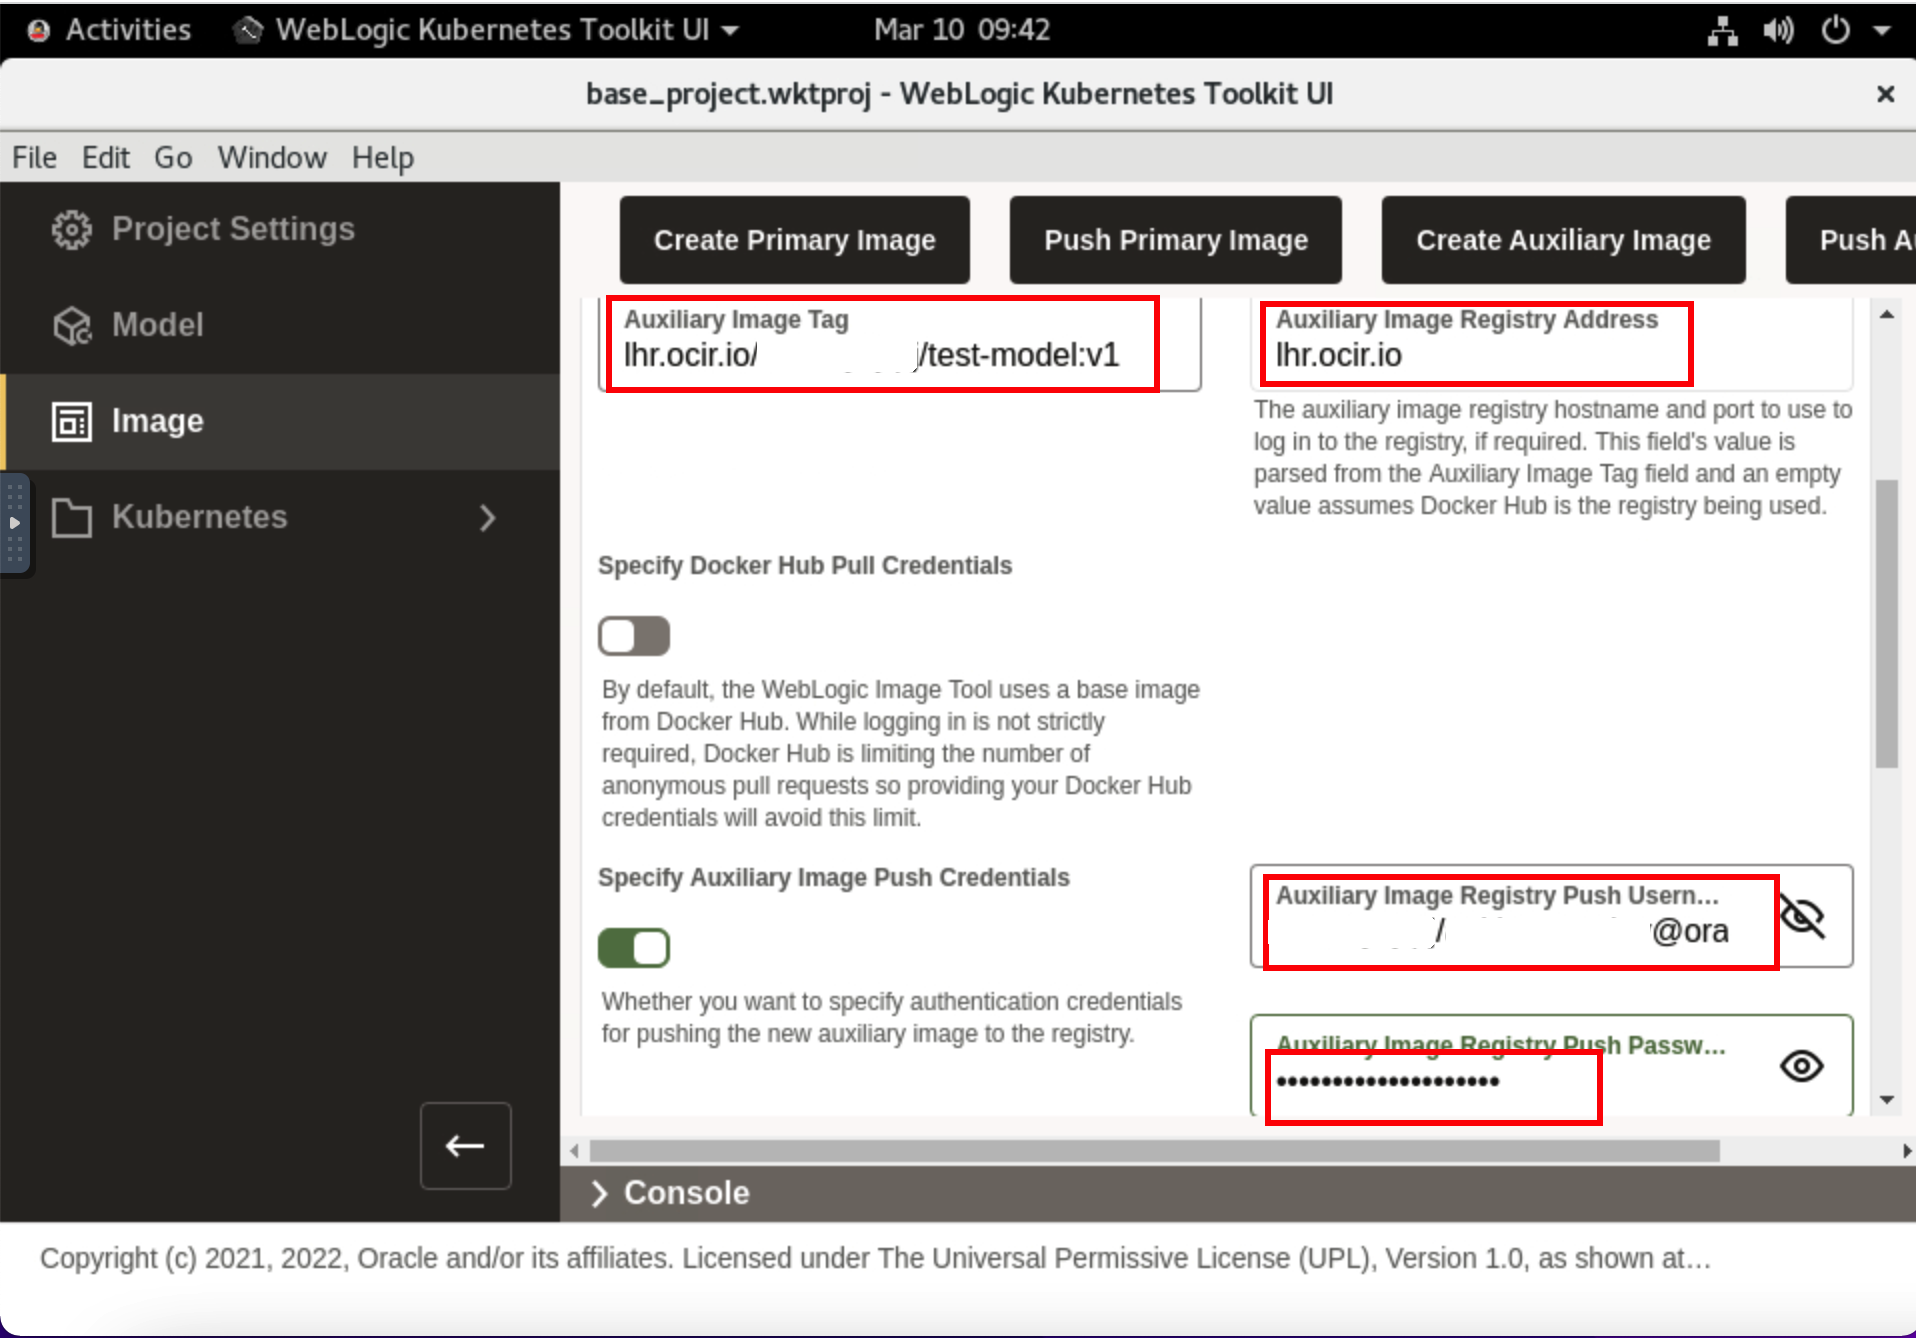
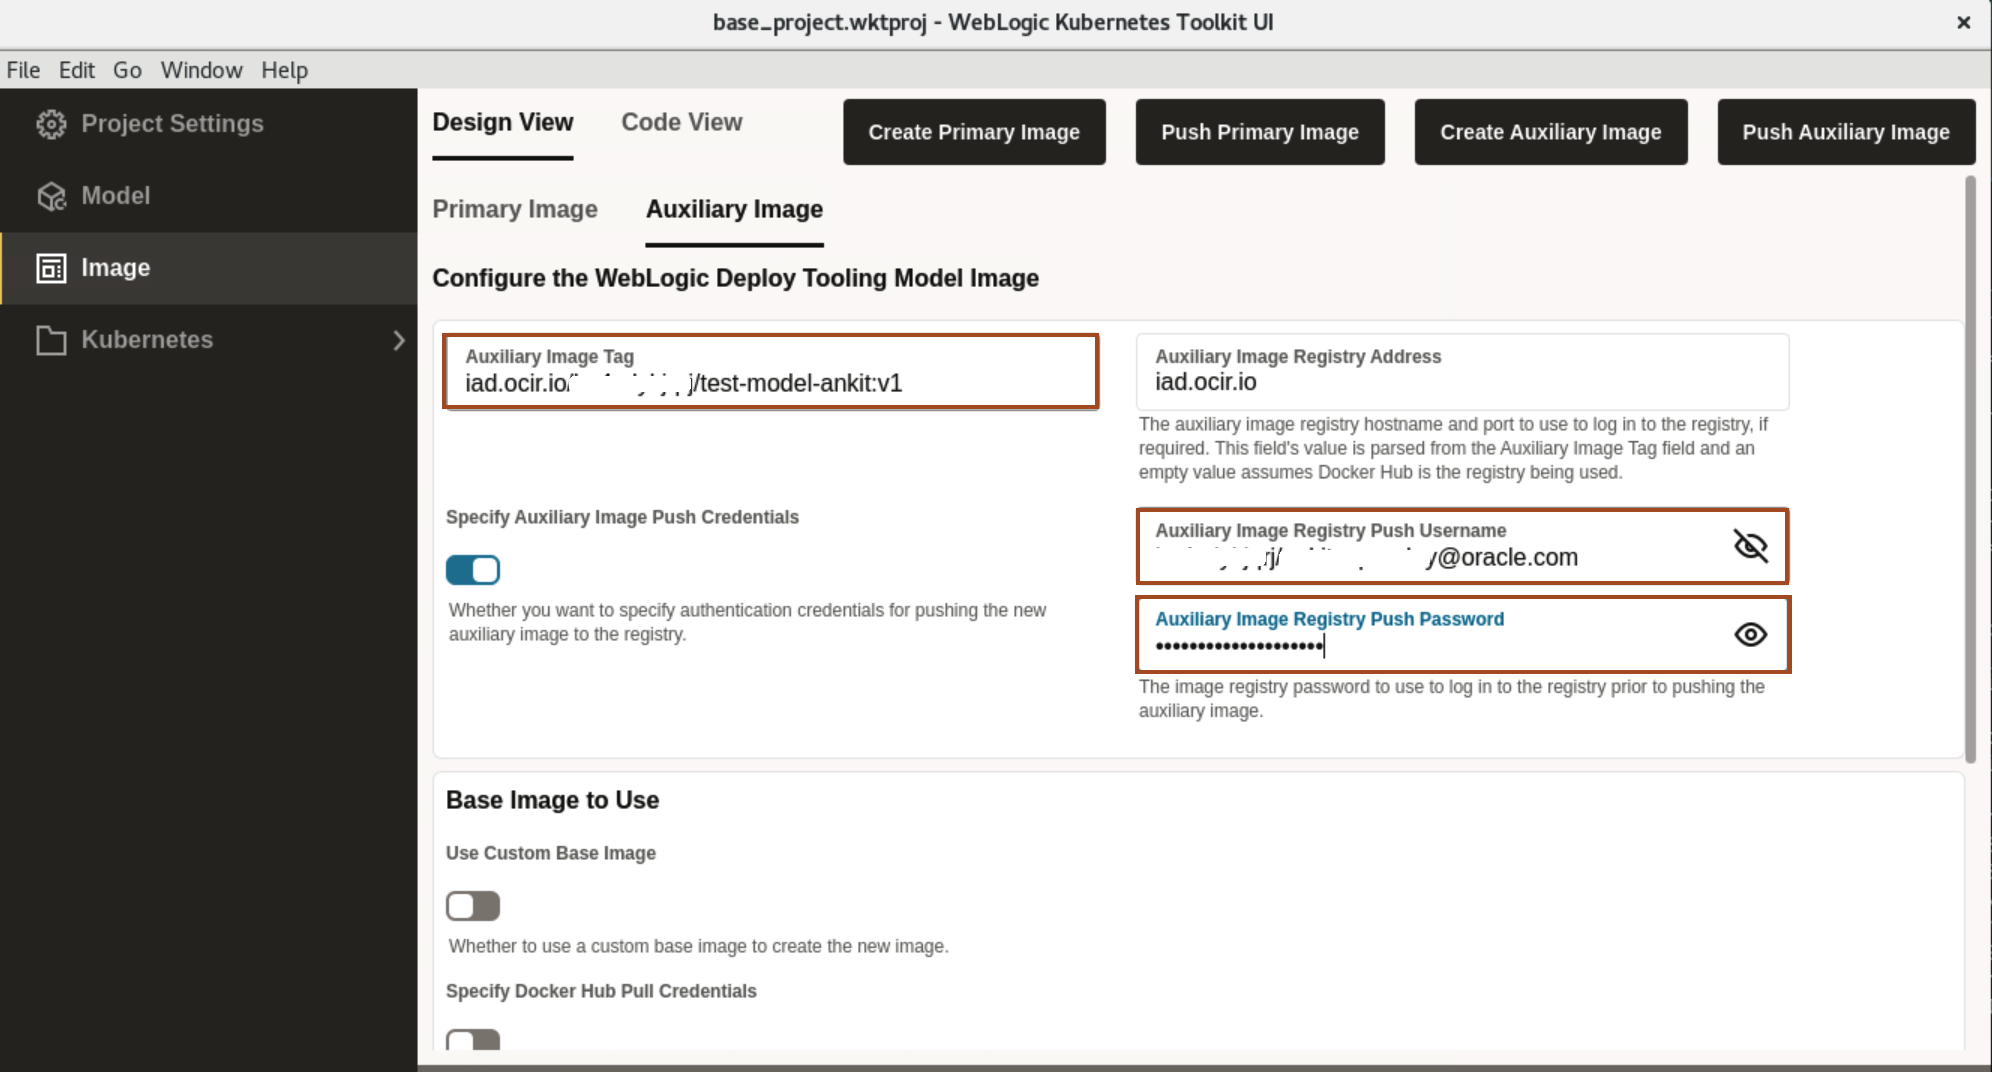
lab 7 complete

diff --git a/create-image/create-image.md b/create-image/create-image.md
@@ -27,20 +27,19 @@ In this Task, we creats the configuration file *.oci/config* and *.kube/config* 
 3. In the Console, select the *Hamburger Menu* -> *Developer Services* -> *Kubernetes Clusters (OKE)* as shown.
     ![OKE Icon](images/oke-icon.png)
 
-2. Click on the cluster name which your created in lab 3. and then click *Access Cluster*. 
+4. Click on the cluster name which your created in lab 1 and then click *Access Cluster*. 
     ![Access Cluster](images/access-cluster.png)
 
 
-3. Select *Local Access* and then click on *Copy* as shown.
+5. Select *Local Access* and then click on *Copy* as shown.
     ![Local Access](images/local-access.png)
 
-4. Click on *Activities* and select the *Terminal*.
-    ![Terminal](images/click-terminal.png)
+6. Go back to terminal and open a new tab.
 
-5. Paste the copied command in the terminal. For *Do you want to create a new config file?*, Type *y* then press *Enter*. For *Do you want to create your config file by logging in through a browser?*, Type *y* then press *Enter*.
+7. Paste the copied command in the new tab. For *Do you want to create a new config file?*, Type *y* then press *Enter*. For *Do you want to create your config file by logging in through a browser?*, Type *y* then press *Enter*.
     ![OCI Config](images/oci-config.png)
 
-6. In Firefox Browser, click on your active session.
+8. In Firefox Browser, click on your active session.
     > You will see *Authorization Completed* as shown.
     ![Authorization Complete](images/authorization-complete.png)
 
@@ -61,39 +60,38 @@ In this task, we are creating an Auxiliary image, which we will push to the Orac
 
 
 
-1. Click *Image*. For Primary Image, we will use the below *weblogic* Image.So leave default values under *Primary Image* section as shown 
-
-    ```bash
-    <copy>container-registry.oracle.com/middleware/weblogic:12.2.1.3-ol8</copy>
-    ```
+1. Click *Image*. For Primary Image, we will use the below *weblogic:12.2.1.3-ol8* from [oracle container registry](http://container-registry.oracle.com) Image.So leave default values under *Primary Image* section as shown 
+    
     ![Primary Image](images/primary-image.png)
     > **For your information only:**<br>
     > The primary image is the one used for running the domain. One primary image can be reused for hundreds of domains. The primary image contains the OS, JDK, and FMW software installations.
 
-2. To create the Auxiliary Image Tag, we need the following information:
+2. Click **Auxiliary Image** tab. To create the Auxiliary Image Tag, we need the following information:
 
     * End point for the Region
     * Tenancy Namespace
 
+    ![click auxiliary](images/click-auxiliary.png)
 
-3. Locate the *Endpoint for Your Region*. Refer to the table documented at this URL [https://docs.oracle.com/en-us/iaas/Content/Registry/Concepts/registryprerequisites.htm#Availab](https://docs.oracle.com/en-us/iaas/Content/Registry/Concepts/registryprerequisites.htm#Availab). In the example shown, the endpoint for the region is *UK South (London)* (as the region name) and its endpoint is *lhr.ocir.io*. Locate the endpoint for your own *Region Name* and save it in the text file. You will also need it for the next lab.
 
-    ![End Points](images/end-point.png " ")
+3. Locate the *Endpoint for Your Region*. Refer to the table documented at this URL [https://docs.oracle.com/en-us/iaas/Content/Registry/Concepts/registryprerequisites.htm#Availab](https://docs.oracle.com/en-us/iaas/Content/Registry/Concepts/registryprerequisites.htm#Availab). In the example shown, the endpoint for the region is *US East(Ashburn)* (as the region name) and its endpoint is **iad.ocir.io**. Locate the endpoint for your own *Region Name* and save it in the text file. You will also need it for the next lab.
+
+    ![region name](images/region-name.png " ")
+    ![end points](images/end-point.png " ")
 
     >Now you have both the tenancy namespace and endpoint for your region.
  
 
-4. In lab 3, you already noted the tenancy namespace in your text file. If not, then for finding the Namespace of the tenancy, select the *Hamburger Menu* -> *Developer Services* -> *Container Registry*, as shown. Select the repository you created, you will find the Namespace as shown.
+4. In lab 2, you already noted the tenancy namespace in your text file. If not, then for finding the Namespace of the tenancy, select the *Hamburger Menu* -> *Developer Services* -> *Container Registry*, as shown. Select the repository you created, you will find the Namespace as shown.
     ![Tenancy Namespace](images/tenancy-namespace.png)
 
-5. Now you have both the Tenancy Namespace and Endpoint for your region. Copy the following command and paste it in your text file. Then replace the `END_POINT_OF_YOUR_REGION` with the endpoint of your region name, `NAMESPACE_OF_YOUR_TENANCY` with your tenancy's namespace. Click on *Auxiliary Image* tab as shown.
-    ![Auxiliary Tab](images/auxiliary-tab.png)
+5. Now you have both the Tenancy Namespace and Endpoint for your region. Copy the following command and paste it in your text file. Then replace the `END_POINT_OF_YOUR_REGION` with the endpoint of your region name, `NAMESPACE_OF_YOUR_TENANCY` with your tenancy's namespace. 
 
     ````bash
     <copy>END_POINT_OF_YOUR_REGION/NAMESPACE_OF_YOUR_TENANCY/test-model-your_first_name:v1</copy>
     ````
 
-> For example, in my case Auxiliary Image tag is `lhr.ocir.io/tenancynamespace/test-model-ankit:v1`.
+> For example, in my case Auxiliary Image tag is `iad.ocir.io/tenancynamespace/test-model-ankit:v1`.
 
 6. In step 4, you also determined the tenancy namespace.
 Enter the  Auxiliary Image Registry Push Username as follows: `NAMESPACE_OF_YOUR_TENANCY`/`YOUR_ORACLE_CLOUD_USERNAME`. <br>
@@ -123,7 +121,7 @@ Enter the  Auxiliary Image Registry Push Username as follows: `NAMESPACE_OF_YOUR
 12. Once image is successfully pushed, On *Push Image Complete* window, click *Ok*. 
     ![Auxiliary Pushed](images/auxiliary-pushed.png)
 
-
+You may now proceed to the next lab.
 
 ## Acknowledgements
 * **Author** -  Ankit Pandey

diff --git a/deploy-ingress/deploy-ingress.md b/deploy-ingress/deploy-ingress.md
@@ -2,7 +2,9 @@
 
 ## Introduction
 
-In this lab, we install the *Traefik* Ingress Controller. Later, we updates the *Ingress Routes* to access the application and admin server.
+In this lab, we install the *Traefik* Ingress Controller and then, we updates the *Ingress Routes* to access the application and admin server.
+
+Later, we access the application *opdemo* and verify the successful migration of an offline on-premise domain. we also verify the loadbalancing between managed server pods.
 
 Estimated Time: 10 minutes
 
@@ -12,6 +14,7 @@ In this lab, you will:
 
 * Install Ingress Controller on Kubernetes Cluster.
 * Update the Ingress Routes.
+* Access the Application through the Browser.
 
 
 ## Task 1: Installtion of Ingress Controller to the Oracle Kubernetes Cluster
@@ -70,7 +73,24 @@ In this task, we add the Ingress routes for Accessing the Admin Console, Applica
 8. Once you see *Ingress Routes Update Complete* window, Click *Ok*.
     ![Update Ingress Complete](images/update-ingress-complete.png)
     
-    > You need to notedown this IP and save it in text file.
+    > You need to notedown this load balancer public IP and save it in text file.
+
+## Task 3: Access the Application through the Browser
+
+In this task, we access the *opdemo* application. We click on refresh icon to make multiple request to application, to verify loadbalancing between two managed server pods.
+
+1. Copy the below URL and replace *XX.XX.XX.XX* with your load balancer public IP, which you noted down in last task. You can see the below output.
+    ```bash
+    <copy>http://XX.XX.XX.XX/opdemo/?dsname=testDatasource</copy>
+    ```
+    ![Open Application](images/open-application.png)
+
+
+2. If you click on Refresh icon, You can see load balancing between two managed server pods.
+    ![Show Loadbalancing](images/show-load-balancing.png)
+
+
+You may now proceed to the next lab.
 
 ## Acknowledgements
 * **Author** -  Ankit Pandey

diff --git a/deploy-operator/deploy-operator.md b/deploy-operator/deploy-operator.md
@@ -2,9 +2,9 @@
 
 ## Introduction
 
-In this lab, we authenticate OCI CLI using the browser, which will creates *.oci/config* file. As we will use kubectl to manage the cluster remotely using the *Local Access*. It needs a *kubeconfig* file. This kubeconfig file will be generated using the OCI CLI. Then we verify the connectivity to Kubernetes cluster from the WebLogic Kubernetes Toolkit UI. At last, we install the WebLogic Kubernetes Operator to Kubernetes cluster(OKE).
+In this lab, we verify the connectivity to Kubernetes cluster from the WebLogic Kubernetes Toolkit UI. At last, we install the WebLogic Kubernetes Operator to Kubernetes cluster(OKE).
 
-Estimated Time: 10 minutes
+Estimated Time: 05 minutes
 
 ### Objectives
 
@@ -53,6 +53,8 @@ This section provides support for installing the WebLogic Kubernetes Operator (t
 
 2. Once you see *WebLogic Kubernetes Operator Installation Complete*, Click *Ok*.
     ![Operator Installed](images/operator-installed.png)
+
+You may now proceed to the next lab.
 
 ## Acknowledgements
 * **Author** -  Ankit Pandey

diff --git a/deploy-domain/deploy-domain.md b/deploy-domain/deploy-domain.md
@@ -51,6 +51,7 @@ In this task, we deploy the Kubernetes custom resource for the WebLogic domain t
 9. In Domain Status window, Scroll down to see status of all server pods then click *OK*.
     ![Server Status](images/server-status.png)
 
+You may now proceed to the next lab.
 
 ## Acknowledgements
 * **Author** -  Ankit Pandey

diff --git a/create-environment/create-environment.md b/create-environment/create-environment.md
@@ -95,6 +95,9 @@ For ease of execution of this workshop, your VM instance has been pre-configured
     
     > Now you need to follow all the instruction inside this remote desktop.
 
+
+You may now proceed to the next lab.
+
 ## Learn More
 
 **About Oracle Cloud Infrastructure Container Engine for Kubernetes**

diff --git a/create-model/create-model.md b/create-model/create-model.md
@@ -160,6 +160,7 @@ In this task, we validate the model and prepare the model to be deployed on Orac
 4. Once you see *Prepare Model Complete* window,click *Ok*.
     ![Prepare Complete](images/prepare-complete.png)
 
+You may now proceed to the next lab.
 
 ## Acknowledgements
 * **Author** -  Ankit Pandey
